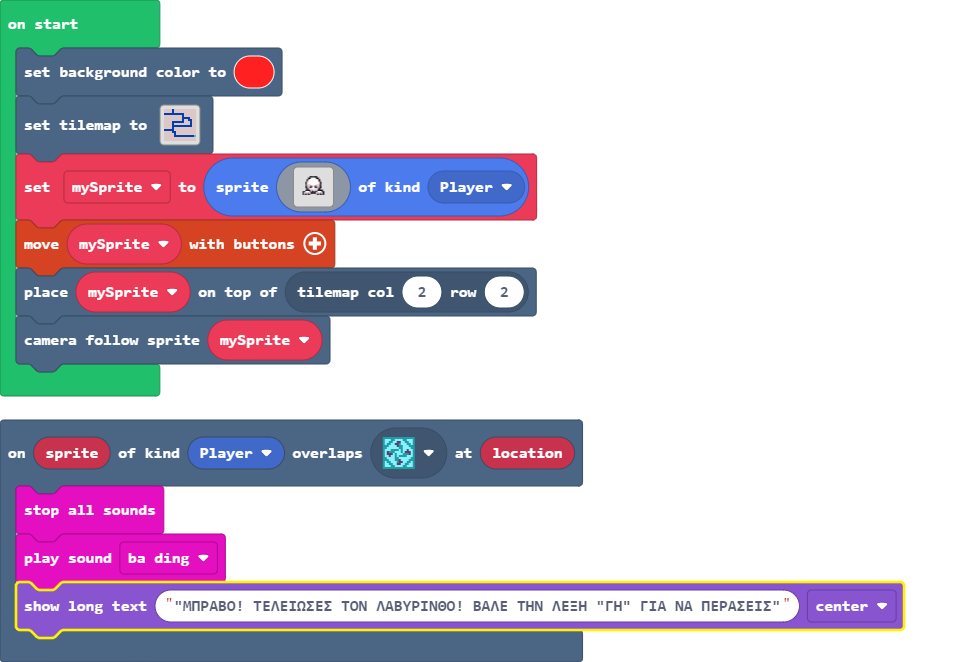
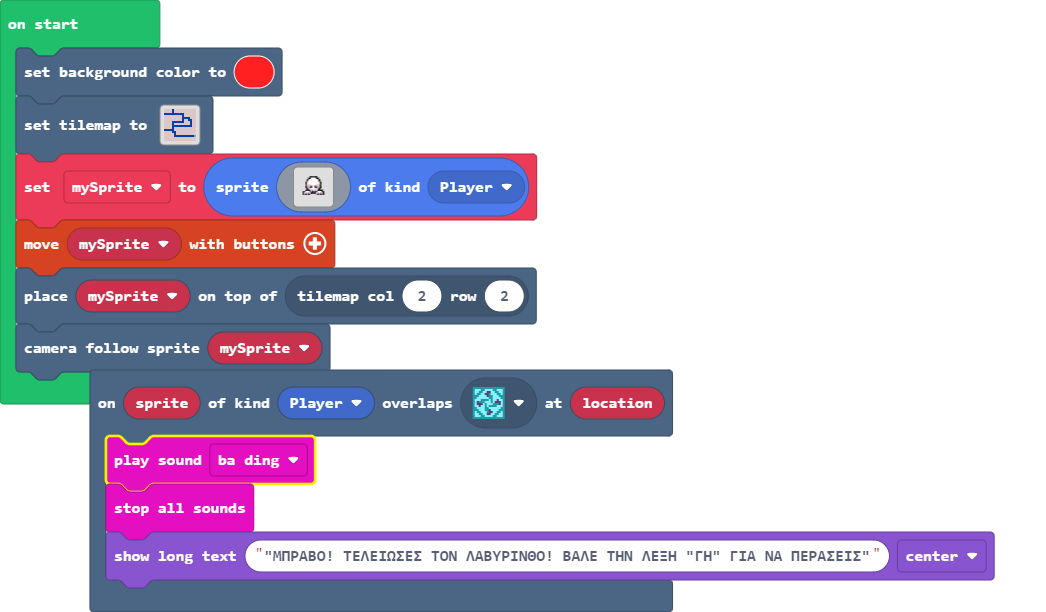
Update main.blocks, main.ts, tilemap.g.jres, tilemap.g.ts

Changed region(s): [[0.0, 0.0, 0.9707, 1.0]]

diff --git a/tilemap.g.ts b/tilemap.g.ts
@@ -26,6 +26,120 @@ namespace myTiles {
 2 2 2 2 2 2 2 2 2 2 2 2 2 2 2 2 
 2 2 2 2 2 2 2 2 2 2 2 2 2 2 2 2 
 `, [myTiles.transparency16,myTiles.tile1,sprites.dungeon.floorLight0,sprites.dungeon.collectibleInsignia], TileScale.Sixteen);
+            case "level2":
+            case "level2":return tiles.createTilemap(hex`1000100000000000000000000000000000000000000000000000000000000000000000000000000000000000000000000000000000000000000000000000000000000000000000000000000000000000000000000000000000000000000000000000000000000000000000000000000000000000000000000000000000000000000000000000000000000000000000000000000000000000000000000000000000000000000000000000000000000000000000000000000000000000000000000000000000000000000000000000000000000000000000000000000000000000000000000000000000000000000000000000000000000000000000000000000000000000`, img`
+. . . . . . . . . . . . . . . . 
+. . . . . . . . . . . . . . . . 
+. . . . . . . . . . . . . . . . 
+. . . . . . . . . . . . . . . . 
+. . . . . . . . . . . . . . . . 
+. . . . . . . . . . . . . . . . 
+. . . . . . . . . . . . . . . . 
+. . . . . . . . . . . . . . . . 
+. . . . . . . . . . . . . . . . 
+. . . . . . . . . . . . . . . . 
+. . . . . . . . . . . . . . . . 
+. . . . . . . . . . . . . . . . 
+. . . . . . . . . . . . . . . . 
+. . . . . . . . . . . . . . . . 
+. . . . . . . . . . . . . . . . 
+. . . . . . . . . . . . . . . . 
+`, [myTiles.transparency16], TileScale.Sixteen);
+            case "level3":
+            case "level3":return tiles.createTilemap(hex`1000100000000000000000000000000000000000000000000000000000000000000000000000000000000000000000000000000000000000000000000000000000000000000000000000000000000000000000000000000000000000000000000000000000000000000000000000000000000000000000000000000000000000000000000000000000000000000000000000000000000000000000000000000000000000000000000000000000000000000000000000000000000000000000000000000000000000000000000000000000000000000000000000000000000000000000000000000000000000000000000000000000000000000000000000000000000000`, img`
+. . . . . . . . . . . . . . . . 
+. . . . . . . . . . . . . . . . 
+. . . . . . . . . . . . . . . . 
+. . . . . . . . . . . . . . . . 
+. . . . . . . . . . . . . . . . 
+. . . . . . . . . . . . . . . . 
+. . . . . . . . . . . . . . . . 
+. . . . . . . . . . . . . . . . 
+. . . . . . . . . . . . . . . . 
+. . . . . . . . . . . . . . . . 
+. . . . . . . . . . . . . . . . 
+. . . . . . . . . . . . . . . . 
+. . . . . . . . . . . . . . . . 
+. . . . . . . . . . . . . . . . 
+. . . . . . . . . . . . . . . . 
+. . . . . . . . . . . . . . . . 
+`, [myTiles.transparency16], TileScale.Sixteen);
+            case "level4":
+            case "level4":return tiles.createTilemap(hex`1000100000000000000000000000000000000000000000000000000000000000000000000000000000000000000000000000000000000000000000000000000000000000000000000000000000000000000000000000000000000000000000000000000000000000000000000000000000000000000000000000000000000000000000000000000000000000000000000000000000000000000000000000000000000000000000000000000000000000000000000000000000000000000000000000000000000000000000000000000000000000000000000000000000000000000000000000000000000000000000000000000000000000000000000000000000000000`, img`
+. . . . . . . . . . . . . . . . 
+. . . . . . . . . . . . . . . . 
+. . . . . . . . . . . . . . . . 
+. . . . . . . . . . . . . . . . 
+. . . . . . . . . . . . . . . . 
+. . . . . . . . . . . . . . . . 
+. . . . . . . . . . . . . . . . 
+. . . . . . . . . . . . . . . . 
+. . . . . . . . . . . . . . . . 
+. . . . . . . . . . . . . . . . 
+. . . . . . . . . . . . . . . . 
+. . . . . . . . . . . . . . . . 
+. . . . . . . . . . . . . . . . 
+. . . . . . . . . . . . . . . . 
+. . . . . . . . . . . . . . . . 
+. . . . . . . . . . . . . . . . 
+`, [myTiles.transparency16], TileScale.Sixteen);
+            case "level5":
+            case "level5":return tiles.createTilemap(hex`1000100000000000000000000000000000000000000000000000000000000000000000000000000000000000000000000000000000000000000000000000000000000000000000000000000000000000000000000000000000000000000000000000000000000000000000000000000000000000000000000000000000000000000000000000000000000000000000000000000000000000000000000000000000000000000000000000000000000000000000000000000000000000000000000000000000000000000000000000000000000000000000000000000000000000000000000000000000000000000000000000000000000000000000000000000000000000`, img`
+. . . . . . . . . . . . . . . . 
+. . . . . . . . . . . . . . . . 
+. . . . . . . . . . . . . . . . 
+. . . . . . . . . . . . . . . . 
+. . . . . . . . . . . . . . . . 
+. . . . . . . . . . . . . . . . 
+. . . . . . . . . . . . . . . . 
+. . . . . . . . . . . . . . . . 
+. . . . . . . . . . . . . . . . 
+. . . . . . . . . . . . . . . . 
+. . . . . . . . . . . . . . . . 
+. . . . . . . . . . . . . . . . 
+. . . . . . . . . . . . . . . . 
+. . . . . . . . . . . . . . . . 
+. . . . . . . . . . . . . . . . 
+. . . . . . . . . . . . . . . . 
+`, [myTiles.transparency16], TileScale.Sixteen);
+            case "level6":
+            case "level6":return tiles.createTilemap(hex`1000100000000000000000000000000000000000000000000000000000000000000000000000000000000000000000000000000000000000000000000000000000000000000000000000000000000000000000000000000000000000000000000000000000000000000000000000000000000000000000000000000000000000000000000000000000000000000000000000000000000000000000000000000000000000000000000000000000000000000000000000000000000000000000000000000000000000000000000000000000000000000000000000000000000000000000000000000000000000000000000000000000000000000000000000000000000000`, img`
+. . . . . . . . . . . . . . . . 
+. . . . . . . . . . . . . . . . 
+. . . . . . . . . . . . . . . . 
+. . . . . . . . . . . . . . . . 
+. . . . . . . . . . . . . . . . 
+. . . . . . . . . . . . . . . . 
+. . . . . . . . . . . . . . . . 
+. . . . . . . . . . . . . . . . 
+. . . . . . . . . . . . . . . . 
+. . . . . . . . . . . . . . . . 
+. . . . . . . . . . . . . . . . 
+. . . . . . . . . . . . . . . . 
+. . . . . . . . . . . . . . . . 
+. . . . . . . . . . . . . . . . 
+. . . . . . . . . . . . . . . . 
+. . . . . . . . . . . . . . . . 
+`, [myTiles.transparency16], TileScale.Sixteen);
+            case "level7":
+            case "level7":return tiles.createTilemap(hex`1000100000000000000000000000000000000000000000000000000000000000000000000000000000000000000000000000000000000000000000000000000000000000000000000000000000000000000000000000000000000000000000000000000000000000000000000000000000000000000000000000000000000000000000000000000000000000000000000000000000000000000000000000000000000000000000000000000000000000000000000000000000000000000000000000000000000000000000000000000000000000000000000000000000000000000000000000000000000000000000000000000000000000000000000000000000000000`, img`
+. . . . . . . . . . . . . . . . 
+. . . . . . . . . . . . . . . . 
+. . . . . . . . . . . . . . . . 
+. . . . . . . . . . . . . . . . 
+. . . . . . . . . . . . . . . . 
+. . . . . . . . . . . . . . . . 
+. . . . . . . . . . . . . . . . 
+. . . . . . . . . . . . . . . . 
+. . . . . . . . . . . . . . . . 
+. . . . . . . . . . . . . . . . 
+. . . . . . . . . . . . . . . . 
+. . . . . . . . . . . . . . . . 
+. . . . . . . . . . . . . . . . 
+. . . . . . . . . . . . . . . . 
+. . . . . . . . . . . . . . . . 
+. . . . . . . . . . . . . . . . 
+`, [myTiles.transparency16], TileScale.Sixteen);
         }
         return null;
     })

diff --git a/main.ts b/main.ts
@@ -1,6 +1,6 @@
 scene.onOverlapTile(SpriteKind.Player, sprites.dungeon.collectibleInsignia, function (sprite, location) {
-    music.stopAllSounds()
     music.baDing.play()
+    music.stopAllSounds()
     game.showLongText("\"ΜΠΡΑΒΟ! ΤΕΛΕΙΩΣΕΣ ΤΟΝ ΛΑΒΥΡΙΝΘΟ! ΒΑΛΕ ΤΗΝ ΛΕΞΗ \"ΓΗ\" ΓΙΑ ΝΑ ΠΕΡΑΣΕΙΣ\"", DialogLayout.Center)
 })
 scene.setBackgroundColor(2)
